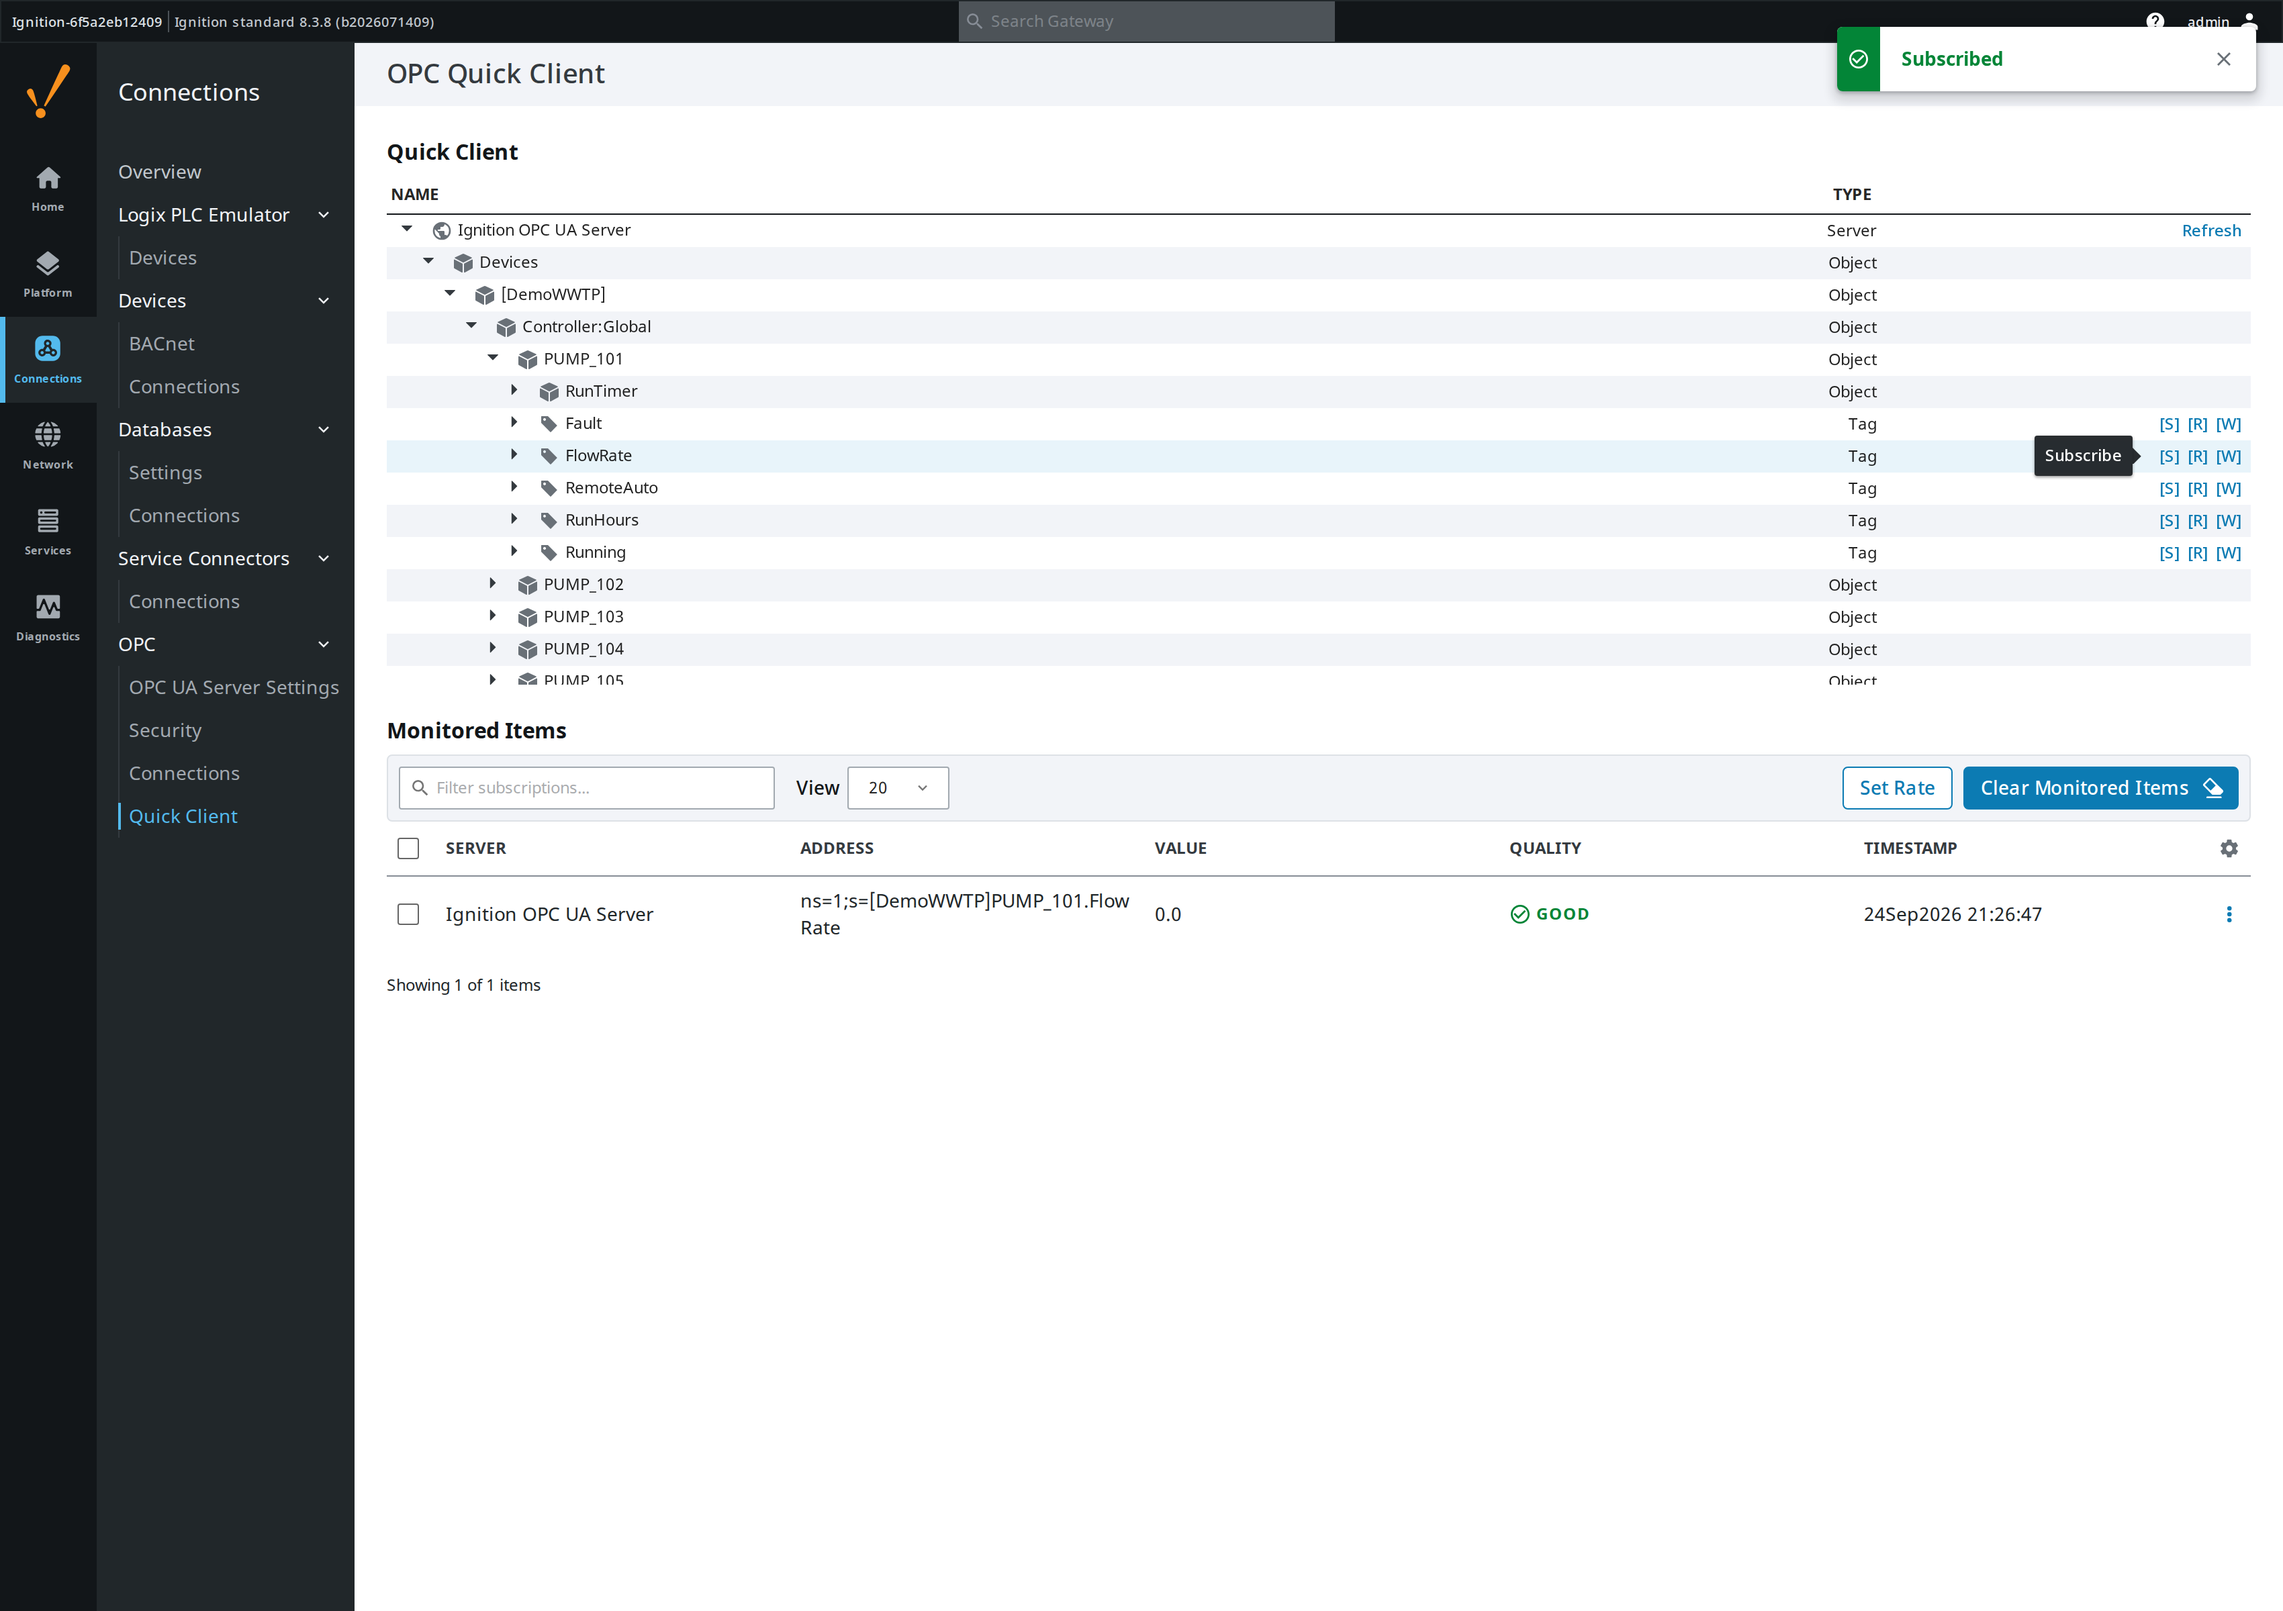
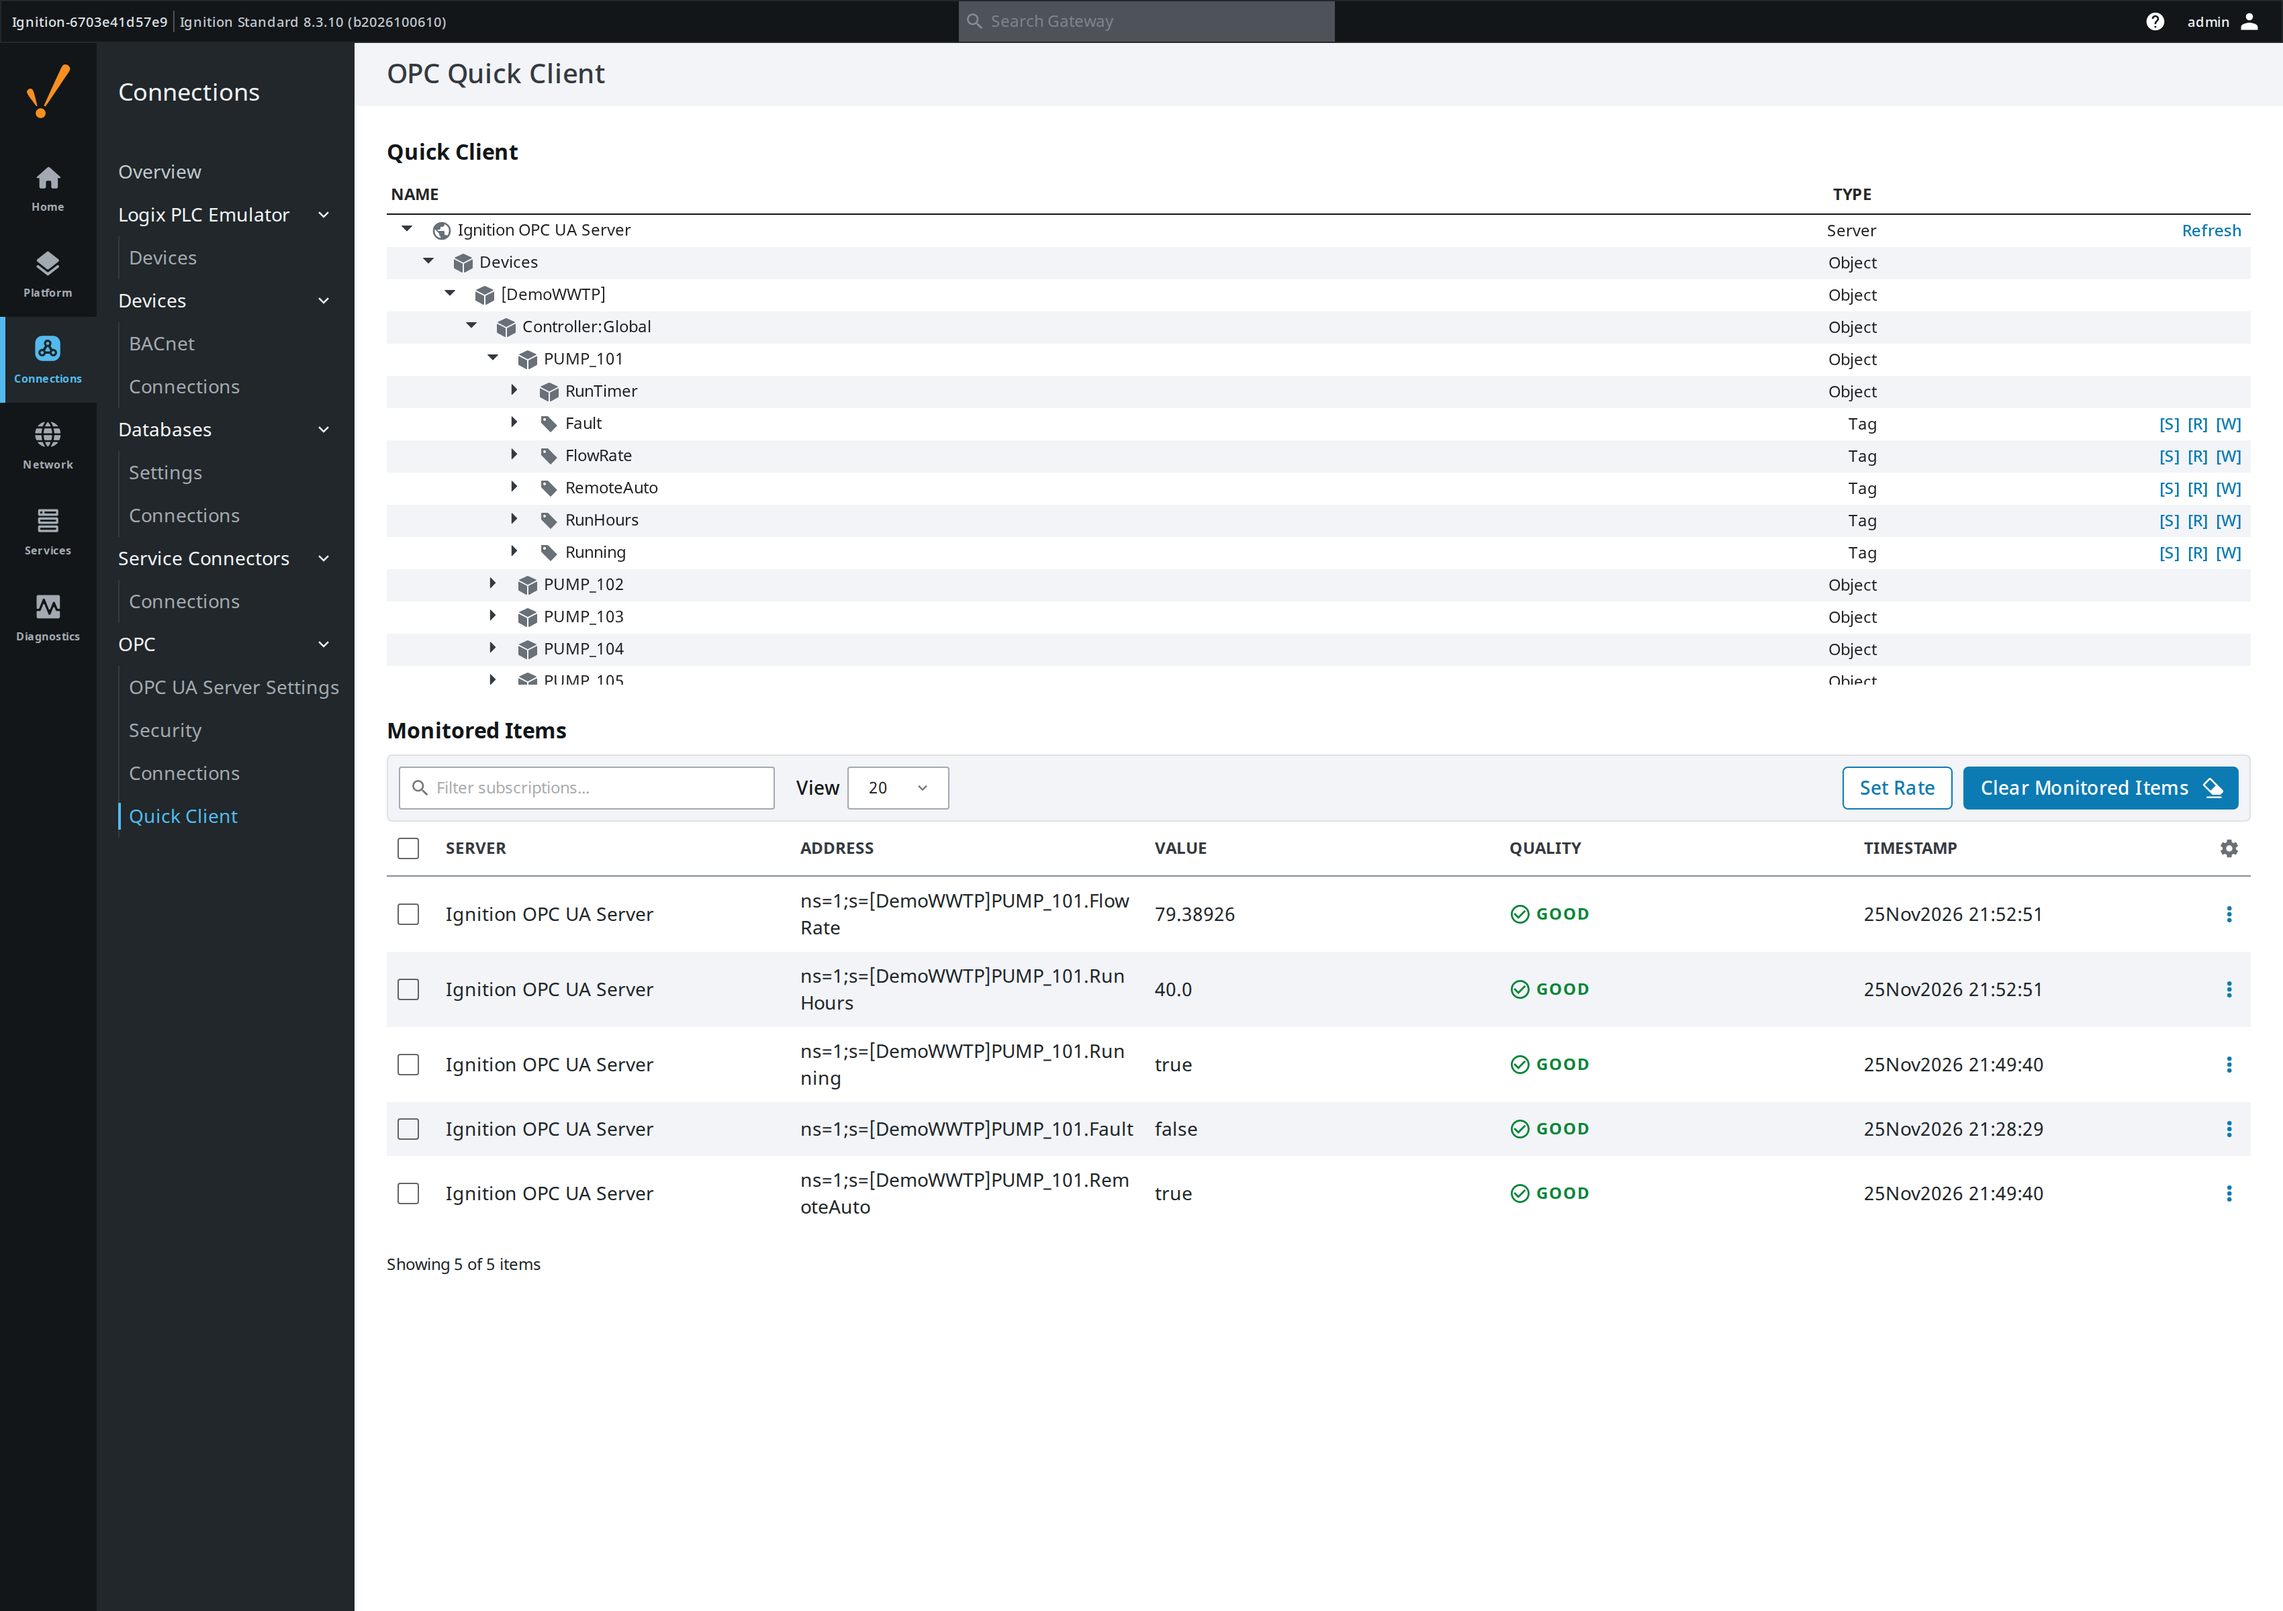
docs(readme): recapture screenshots for 11.1.7

diff --git a/README.md b/README.md
@@ -26,39 +26,38 @@ release decision.
 
 The screenshots below are a synthetic demo plant program — `DemoWWTP`, a
 hand-written L5K export with generic pump/valve/tank tags (392 tags, 86 UDT
-instances) invented for these screenshots — emulated on a live 8.3.8 test
+instances) invented for these screenshots — emulated on a live 8.3.10 test
 gateway. The module parses real site exports just as well (that's what the
 fidelity test corpus is for); a synthetic device is pictured here so nothing
 published identifies a real facility.
 
 ![Connection Browser dashboard](docs/images/connection-browser-dashboard.png)
-*The module's landing page inside Gateway Config: `DemoWWTP` emulated with
-392 tags, live simulation status at a glance — this is the "is it working"
-screen.*
+*The module's landing page inside Gateway Config: two emulated devices,
+392 tags, one healthy — `Packaging_PLC` was given a truncated export and
+failed to load. This is the "is it working" screen.*
 
 ![Tag Browser with a live, populated tag tree](docs/images/tag-browser-live-tree.png)
 *The Tag Browser expanded into a synthetic pump UDT (`PUMP_101`) nested under
 `Controller:Global`, Live mode on, showing its `RunTimer`/`Fault`/`FlowRate`/
-`RemoteAuto`/`RunHours`/`Running` members. Folder counts, data types and
-values all come from the parsed program — nothing here is placeholder data.*
+`RemoteAuto`/`RunHours`/`Running` members, with `FlowRate` and `RunHours`
+changing each second under simulation. Folder counts, data types and values
+come from the parsed program.*
 
 ![Simulation Control with bulk simulation enabled](docs/images/simulation-control.png)
-*Bulk simulation enabled with one click: `DemoWWTP` shows `SIM` active with
-414 tags simulating — higher than the 392 declared tags because two array
-tags, `ANALOG_INPUTS` (`REAL[16]`) and `ALARM_WORDS` (`DINT[8]`), each
-simulate as one value per element (392 − 2 + 16 + 8 = 414). This is what
-"acceptance-test with zero PLC hardware" looks like in practice.*
+*Simulation Control across both devices: `DemoWWTP` is running with bulk
+simulation on (409 tags simulating; open its row for Enable/Disable All and
+per-scope controls), and the faulted `Packaging_PLC` shows a red status dot.
+This is acceptance testing with no PLC hardware.*
 
 ![OPC device connections, unfiltered](docs/images/opc-device-connections.png)
-*The emulator is a normal Ignition device driver: `DemoWWTP` shows up under
-Devices → Connections next to every other driver — Ignition's own
-Programmable Device Simulator sits right beside it, both `RUNNING` like any
-real device.*
+*The emulator is a normal Ignition device driver: both devices appear under
+Devices → Connections, `DemoWWTP` `RUNNING` and `Packaging_PLC` reporting its
+parse error, like any real device.*
 
 ![Emulated tags subscribed in the OPC UA Quick Client](docs/images/opc-ua-quick-client.png)
-*Proof the emulation is real OPC-UA, not a UI trick: the standard Ignition
-Quick Client browses into `[DemoWWTP]PUMP_101.FlowRate` and subscribes with
-`GOOD` quality — any Designer, script or binding sees the same thing.*
+*The emulation is real OPC-UA: the standard Ignition Quick Client browses into
+`[DemoWWTP]PUMP_101` and subscribes to five members with `GOOD` quality.
+Any Designer, script or binding sees the same values.*
 
 ## What it does
 
